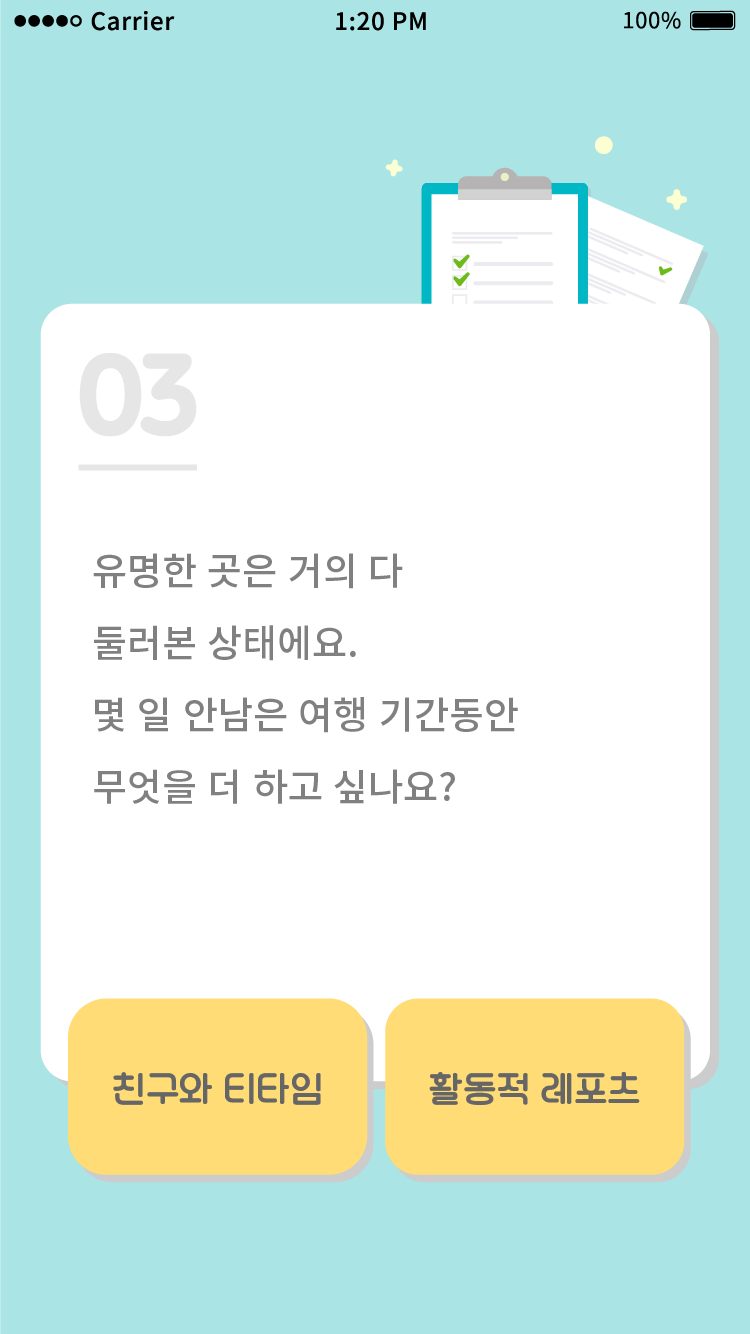
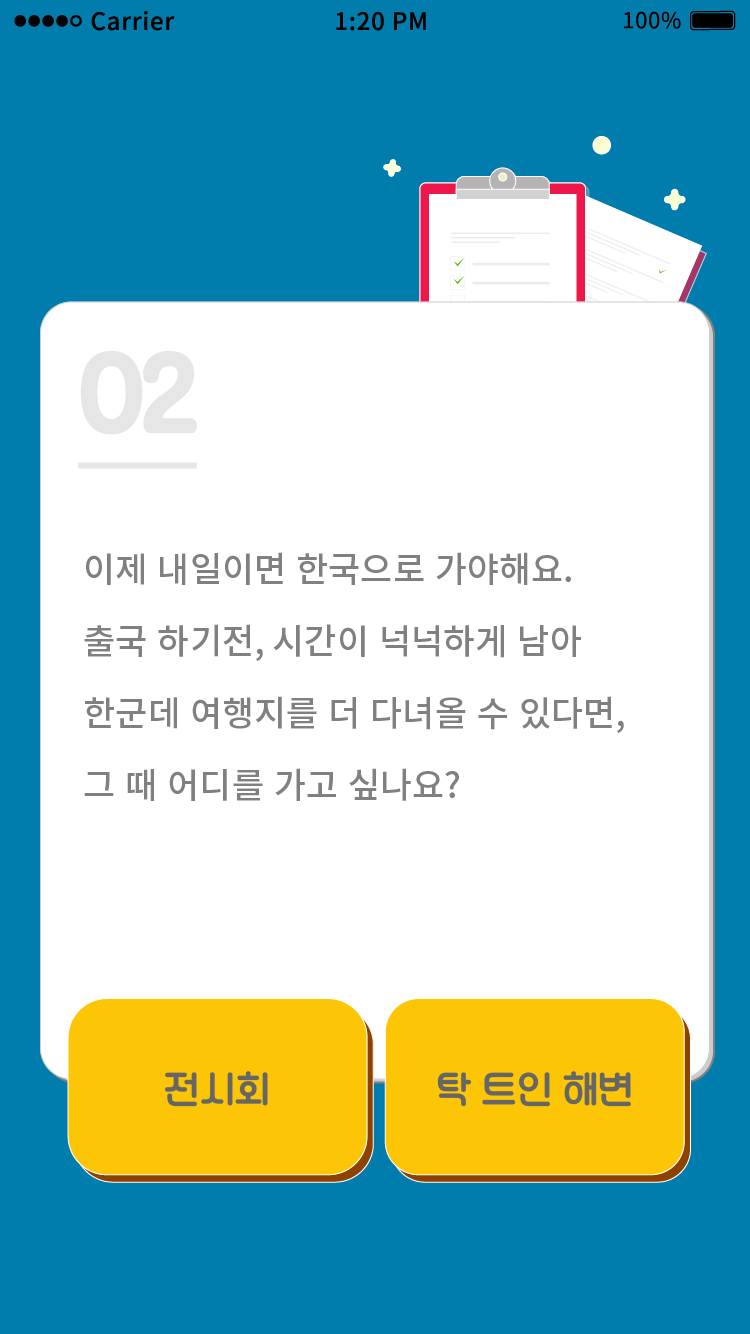
calculation done

diff --git a/docs/js/app.js b/docs/js/app.js
@@ -1,28 +1,58 @@
 (function(D) {
-  var $ = D, $1 = D1, page = 0, $body = $('body'), $left = $1('#left'), $right = $1('#right'), $btns = [$left, $right];
+  var $ = D, $1 = D1, page = 1, $body = $('body'), $left = $1('#left'), $right = $1('#right'), $btns = [$left, $right];
 
-  var actions = {
-    2: function() {
-      $.hide($left);
-      $.css($right, { width : 308, bottom: 45, right: 32 });
-    }, 
-    3: function() {
-      _.go($left, $.show, $.css({ left: 35 }));
-      _.go($btns, $.css({ bottom: 77, height: 86, width: 145, borderRadius: 18 }))
+  var t = { city: 0, rest: 0, purpose: 0, achieve: 0, consume: 0 };
+
+  var a_or_b = function(a, b) {
+    return function(id) {
+      if (id == 'left') ++t[a];
+      else ++t[b];
     }
   };
 
+  var actions = {
+    1: function() {
+      $.hide($left);
+      $.css($right, { width : 308, bottom: 45, right: 32 });
+    }, 
+    2: function() {
+      _.go($left, $.show, $.css({ left: 35 }));
+      _.go($btns, $.css({ bottom: 77, height: 86, width: 145, borderRadius: 18 }))
+    }, 
+    3: a_or_b('city', 'rest'), 
+    4: a_or_b('purpose', 'rest'),
+    5: a_or_b('achieve', 'rest'),
+    6: a_or_b('city', 'consume'),
+    7: a_or_b('consume', 'rest'),
+    8: a_or_b('purpose', 'achieve'),
+    9: a_or_b('achieve', 'consume'),
+    10: a_or_b('purpose', 'consume'),
+    11: a_or_b('city', 'purpose'),
+    12: a_or_b('rest', 'city'),
+  };
+
   var click_event = function() {
-    if (page < 12) {
+    if (page < 13) {
+      _.isFunction(actions[page]) && actions[page](this.id); 
       $.css($body, { backgroundImage : _.s('n', 'url(img/img_{{n}}.png)')(++page) });
-      _.isFunction(actions[page]) && actions[page](); 
+    } 
+    if (page == 13) {
+      if (_.every(t, function(t) { return t == 2 })) alert("당신은 숨만 쉬어도 행복한 말미잘");
+      else if (t.city == 4 && t.consume < 3 && t.achieve < 3 && t.rest < 3 && t.purpose < 3) alert("당신은 차가운 도시 여우");
+      else if (t.achieve + t.rest >=5 && t.consume <= 2) alert("당신은 티타임매니아 다람쥐");
+      else if (t.consume == 4 && t.consume + t.purpose >= 5) alert("당신은 클러버 올빼미");
+      else if (t.rest + t.consume >= 5 && t.achieve <= 2) alert("당신은 반전매력 돌고래");
+      else if (t.consume + t.city >= 5) alert("당신은 주머니 열린 캥거루");
+      else if (t.purpose + t.city >= 5) alert("당신은 재벌 2세 공작새");
+      else if (t.achieve + t.rest >=5 ) alert("당신은 뜨거운 심장의 사슴");
+      else alert("당신은 ???");
     }
   };
 
   _.go(
     $body,
-    $.css('background-image', _.s('n', 'url(img/img_{{n}}.png)')(++page)),
-    $.on('click', '.btn#left', __(click_event)),
-    $.on('click', '.btn#right', __(click_event))
+    $.css('background-image', _.s('n', 'url(img/img_{{n}}.png)')(page)),
+    $.on('click', '.btn#left', click_event),
+    $.on('click', '.btn#right', click_event)
   );
 })(window.D)

diff --git a/docs/css/style.css b/docs/css/style.css
@@ -6,7 +6,6 @@ html, body {
 
 .btn {
   position: absolute;
-  border: 2px solid red;
   height: 45px;
   width: 332px;
   border-radius: 50px;
